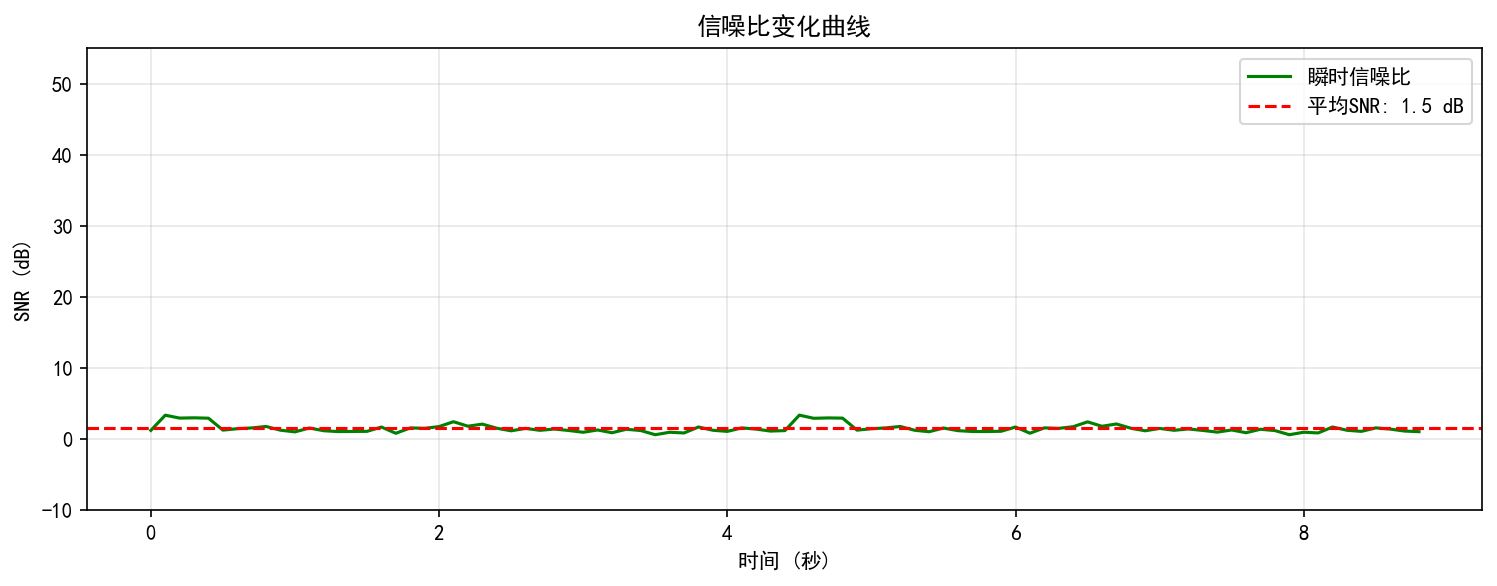
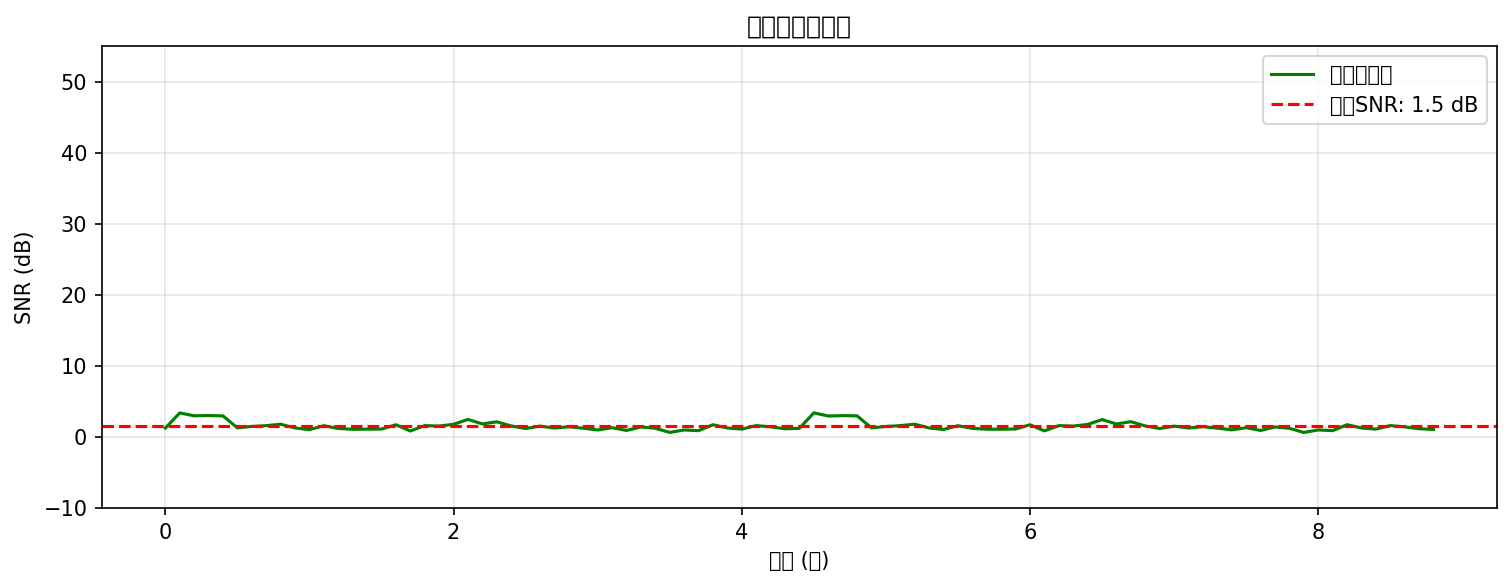
prototype

diff --git a/realtime_processor.py b/realtime_processor.py
@@ -4,12 +4,12 @@ import queue
 import time
 import numpy as np
 import sounddevice as sd
-import keyboard
 from scipy.signal import lfilter, iirnotch, lfilter_zi
 from collections import deque
 import matplotlib
+import keyboard
 
-matplotlib.use('TkAgg')
+matplotlib.use('Qt5Agg')
 import matplotlib.pyplot as plt
 from matplotlib.animation import FuncAnimation
 from matplotlib.font_manager import FontProperties
@@ -41,124 +41,122 @@ class RealTimeProcessor:
             "reference": None
         }
 
-        # 图形初始化
+        # 图形系统初始化
         self._init_plot()
-        self.plot_queue = queue.Queue(maxsize=5)
-        self.ani = None
 
     def _init_fonts(self):
         """安全初始化中文字体"""
         try:
             font_path = os.path.abspath('fonts/simhei.ttf')
-            if not os.path.exists(font_path):
-                raise FileNotFoundError(f"字体文件未找到: {font_path}")
-
-            self.font = FontProperties(fname=font_path)
-            plt.rcParams['font.sans-serif'] = [self.font.get_name()]
-            plt.rcParams['axes.unicode_minus'] = False
+            if os.path.exists(font_path):
+                self.font = FontProperties(fname=font_path)
+            else:
+                self.font = FontProperties(family='SimHei')
         except Exception as e:
             print(f"字体初始化警告: {str(e)}")
-            plt.rcParams['font.sans-serif'] = ['SimHei']
-            plt.rcParams['axes.unicode_minus'] = False
+            self.font = FontProperties(family='SimHei')
+
+        plt.rcParams['font.sans-serif'] = [self.font.get_name()]
+        plt.rcParams['axes.unicode_minus'] = False
 
     def _init_plot(self):
-        """增强的图形初始化"""
+        """图形系统初始化"""
         plt.ioff()
         self.fig, self.ax = plt.subplots(figsize=(10, 4))
 
-        # 创建图形元素
+        # 初始化曲线
         self.line, = self.ax.plot([], [], 'g-', lw=1, label='瞬时SNR')
         self.avg_line = self.ax.axhline(0, color='r', ls='--', label='平均SNR')
 
-        # 设置中文标签
+        # 坐标轴配置
+        self.ax.set_xlim(0, 10)
+        self.ax.set_ylim(-5, 5)
         self.ax.set_xlabel('时间 (秒)', fontproperties=self.font)
         self.ax.set_ylabel('SNR (dB)', fontproperties=self.font)
-
-        # 配置图例
-        self.ax.legend(prop=self.font, loc='upper right')
-
-        # 初始坐标范围
-        self.ax.set_xlim(0, 10)
-        self.ax.set_ylim(-10, 50)
+        self.ax.legend(prop=self.font)
         self.ax.grid(True, alpha=0.3)
 
+        # 初始化动画
+        self.ani = FuncAnimation(
+            self.fig,
+            self._animate_update,
+            interval=50,
+            blit=False,
+            cache_frame_data=False
+        )
+
         plt.ion()
-        self.fig.show()  # 预显示窗口
+        self.plot_queue = queue.Queue(maxsize=5)
 
     def _animate_update(self, frame):
-        """动画帧更新函数"""
+        """动画更新函数"""
         try:
-            if not self.plot_queue.empty():
-                times, snrs, avg = self.plot_queue.get()
+            times, snrs, avg = self.plot_queue.get_nowait()
 
-                # 更新曲线数据
-                self.line.set_data(np.array(times) - times[-1] + 10, snrs)
-                self.avg_line.set_ydata([avg] * 2)
+            # 更新曲线数据
+            self.line.set_data(times, snrs)
+            self.avg_line.set_ydata([avg, avg])
 
-                # 自动调整坐标范围
-                if len(times) > 1:
-                    self.ax.set_xlim(max(0, times[-1] - 10), max(10, times[-1]))
-                    self.ax.figure.canvas.draw()
-        except Exception as e:
-            pass
-        return self.line, self.avg_line
+            # 动态调整坐标
+            if len(times) > 0:
+                current_time = times[-1]
+                self.ax.set_xlim(max(0, current_time - 10), current_time + 0.1)
+                min_snr = min(snrs) - 2 if len(snrs) > 0 else -5
+                max_snr = max(snrs) + 2 if len(snrs) > 0 else 5
+                self.ax.set_ylim(min_snr, max_snr)
+
+            self.fig.canvas.draw_idle()
+            return self.line, self.avg_line
+        except queue.Empty:
+            return self.line, self.avg_line
 
     def audio_callback(self, indata, frames, time, status):
         """音频输入回调"""
         if status:
             print(f"音频流异常: {status}")
-        if self.running:
-            try:
-                self.audio_buffer.put_nowait(indata.copy())
-            except queue.Full:
-                pass
+        if self.running and not self.audio_buffer.full():
+            self.audio_buffer.put(indata.copy())
 
     def processing_loop(self):
         """实时处理主循环"""
-        try:
-            time_counter = 0
-            last_update = time.time()
+        time_counter = 0.0
+        last_update = time.time()
 
-            while self.running:
-                # 获取数据块
-                try:
-                    data = self.audio_buffer.get(timeout=0.5)
-                except queue.Empty:
-                    continue
+        while self.running:
+            try:
+                # 获取音频数据
+                data = self.audio_buffer.get(timeout=0.5)
+                chunk = data.flatten()
 
                 # 处理数据
-                chunk = data.flatten()
                 filtered = self._apply_filter(chunk)
                 current_snr = self._calculate_snr(chunk, filtered)
                 time_counter += len(chunk) / self.fs
 
-                # 更新历史数据
+                # 记录数据
                 self.snr_history.append((time_counter, current_snr))
 
-                # 定时更新显示队列
+                # 更新图形队列
                 if time.time() - last_update >= self.update_interval:
-                    try:
-                        self.plot_queue.put_nowait((
-                            [t for t, _ in self.snr_history],
-                            [s for _, s in self.snr_history],
-                            np.mean([s for _, s in self.snr_history]) if self.snr_history else 0
-                        ))
-                    except queue.Full:
-                        pass
+                    times = [t for t, _ in self.snr_history]
+                    snrs = [s for _, s in self.snr_history]
+                    avg = np.mean(snrs) if snrs else 0
+
+                    if not self.plot_queue.full():
+                        self.plot_queue.put((times.copy(), snrs.copy(), avg))
                     last_update = time.time()
 
-        except Exception as e:
-            print(f"处理线程异常: {str(e)}")
-            self.stop()
-
-    # 保持滤波和信号处理方法不变（_apply_filter, _notch_filter等）
+            except queue.Empty:
+                continue
+            except Exception as e:
+                print(f"处理异常: {str(e)}")
+                self.stop()
 
     def _apply_filter(self, chunk):
-        """应用当前滤波器（新增关键方法）"""
+        """应用当前滤波器"""
         if self.filter_type == "steady":
             return self._notch_filter(chunk)
-        else:
-            return self._lms_filter(chunk)
+        return self._lms_filter(chunk)
 
     def _notch_filter(self, chunk):
         """陷波滤波器实现"""
@@ -199,50 +197,33 @@ class RealTimeProcessor:
         return freqs[np.argmax(fft)]
 
     def _calculate_snr(self, original, processed):
-        """实时SNR计算方法（新增关键方法）"""
+        """SNR计算方法"""
         noise = original - processed
         signal_power = np.mean(original ** 2)
         noise_power = np.mean(noise ** 2)
-
-        # 数值稳定性处理
         eps = 1e-12
         return 10 * np.log10((signal_power + eps) / (noise_power + eps))
 
     def start(self):
-        """启动实时处理系统"""
+        """启动系统"""
         if self.running:
             return
 
         self.running = True
 
-        # 启动动画
-        self.ani = FuncAnimation(
-            self.fig,
-            self._animate_update,
-            interval=50,
-            blit=False,
-            cache_frame_data=False
-        )
-
-        # 启动音频处理线程
-        self.audio_thread = threading.Thread(
-            target=self._audio_stream_loop,
-            daemon=True
-        )
-        self.audio_thread.start()
-
         # 启动处理线程
-        self.process_thread = threading.Thread(
-            target=self.processing_loop,
-            daemon=True
-        )
+        self.process_thread = threading.Thread(target=self.processing_loop, daemon=True)
         self.process_thread.start()
 
+        # 启动音频流
+        self.audio_thread = threading.Thread(target=self._audio_stream_loop, daemon=True)
+        self.audio_thread.start()
+
         # 显示图形界面
-        plt.show(block=True)  # 阻塞主线程直到窗口关闭
+        plt.show(block=True)
 
     def _audio_stream_loop(self):
-        """音频流专用线程"""
+        """音频流线程"""
         try:
             with sd.InputStream(
                     samplerate=self.fs,
@@ -254,31 +235,24 @@ class RealTimeProcessor:
                 while self.running:
                     if keyboard.is_pressed('q'):
                         self.stop()
-                    time.sleep(0.01)
+                    time.sleep(0.1)
         except Exception as e:
             self.stop()
 
     def stop(self):
-        """增强的资源释放方法"""
+        """停止系统"""
         if not self.running:
             return
 
         self.running = False
 
-        # 停止动画
-        if self.ani:
-            self.ani.event_source.stop()
-
-        # 关闭图形窗口
+        # 关闭图形
         if plt.fignum_exists(self.fig.number):
             plt.close(self.fig)
 
         # 等待线程结束
-        threads = []
-        for t in [self.audio_thread, self.process_thread]:
-            if t and t.is_alive() and t is not threading.current_thread():
+        for t in [self.process_thread, self.audio_thread]:
+            if t and t.is_alive():
                 t.join(timeout=1)
-                threads.append(t)
 
-        print(f"已停止 {len(threads)} 个工作线程")
-        print("系统已完全停止")
+        print("系统已安全停止")
